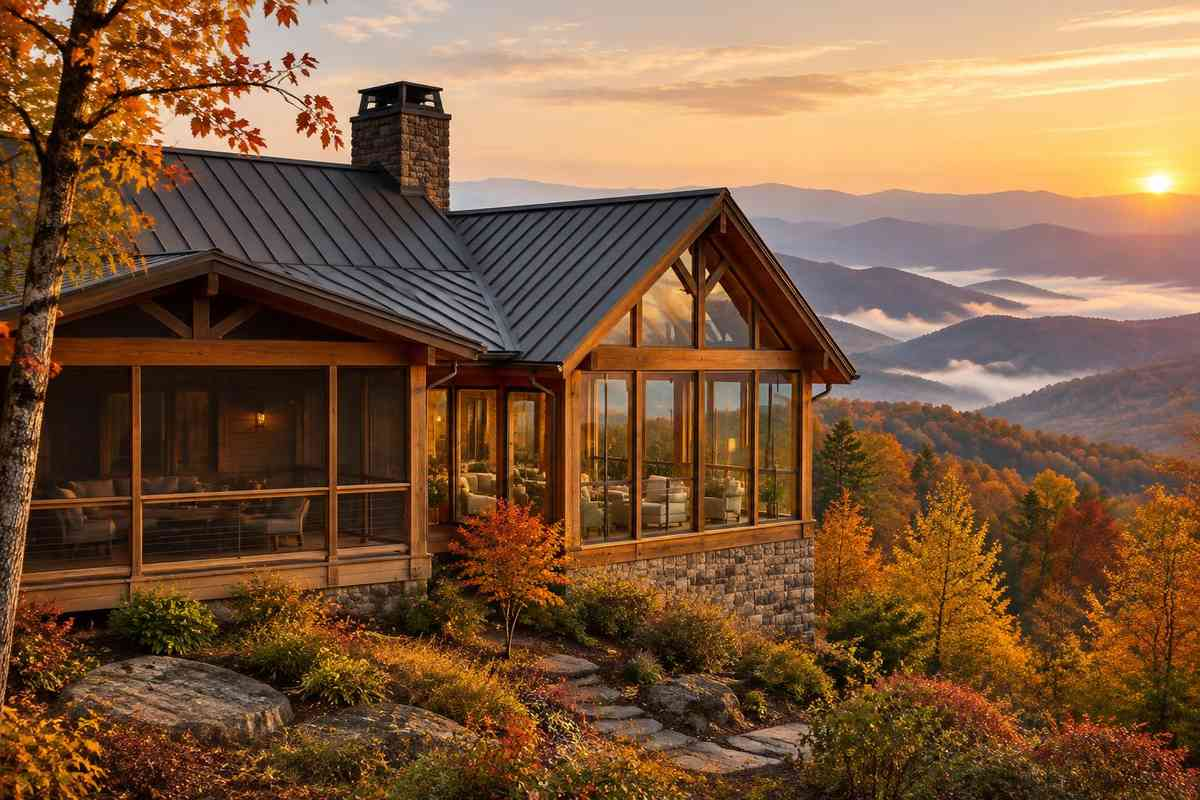
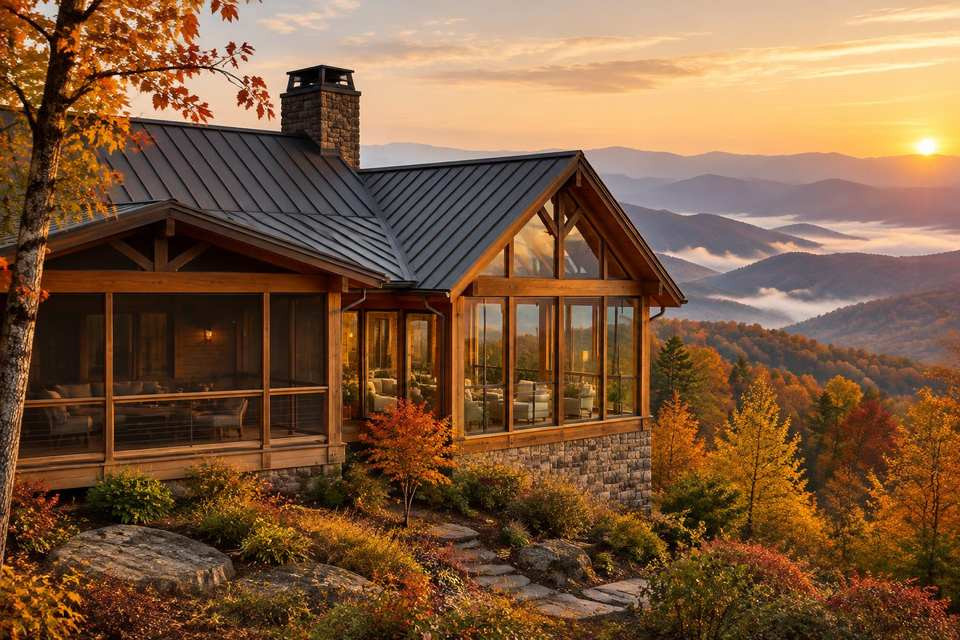
Changes

diff --git a/src/test/october20-uploaded-blog.test.ts b/src/test/october20-uploaded-blog.test.ts
@@ -1,0 +1,31 @@
+import { describe, expect, it } from "vitest";
+import { readFileSync, statSync } from "node:fs";
+import { blogPosts, getBlogBySlug, isLinkableBlogPost } from "@/data/blogs";
+import { canonicalUrlFor } from "@/components/SEOHead";
+
+describe("October 20 uploaded screened porch vs sunroom article", () => {
+  it("preserves the uploaded filename and supplies a matching optimized cover", () => {
+    const slug = "screened-porch-vs-sunroom";
+    const post = getBlogBySlug(slug);
+    expect(post).toBeDefined();
+    if (!post) return;
+    expect(blogPosts.filter(p => p.slug === slug)).toHaveLength(1);
+    expect(isLinkableBlogPost(post)).toBe(true);
+    expect(post.canonicalTo).toBeUndefined();
+    expect(post.date).toBe("2026-10-20");
+    expect(canonicalUrlFor(`/blog/${slug}`)).toBe(`https://highlandernc.com/blog/${slug}`);
+    expect(post.image).toContain(`${slug}-hero.jpg`);
+    expect(statSync(`src/assets/blog/${slug}-hero.jpg`).size).toBeLessThan(100_000);
+    expect(post.metaTitle.length).toBeLessThanOrEqual(60);
+    expect(post.metaDescription.length).toBeLessThanOrEqual(160);
+    expect(post.faqs?.length).toBeGreaterThanOrEqual(4);
+    expect(post.content).not.toMatch(/babylovegrowth|data-blg-cta|supabase\.co|<script|<iframe|\barchitectural\b|free estimate|[—–]/i);
+    expect(readFileSync("public/sitemap.xml", "utf8")).toContain(`<loc>https://highlandernc.com/blog/${slug}</loc>`);
+    expect(readFileSync("public/prerender-manifest.json", "utf8")).toContain(`/blog/${slug}`);
+    for (const match of post.content.matchAll(/\]\((\/blog\/[^)]+)\)/g)) {
+      const target = getBlogBySlug(match[1].replace("/blog/", ""));
+      expect(target, match[1]).toBeDefined();
+      if (target) expect(isLinkableBlogPost(target), match[1]).toBe(true);
+    }
+  });
+});

diff --git a/src/data/blog-summaries.generated.ts b/src/data/blog-summaries.generated.ts
@@ -13,6 +13,15 @@ export interface BlogSummary {
 
 export const blogSummaries: BlogSummary[] = [
   {
+    "id": "screened-porch-vs-sunroom",
+    "slug": "screened-porch-vs-sunroom",
+    "title": "Screened Porch vs. Sunroom: Which Fits a Mountain Home?",
+    "excerpt": "Compare screened porches, three-season rooms and four-season sunrooms on cost, comfort, permits and resale value for Western North Carolina mountain homes.",
+    "category": "Outdoor Living",
+    "date": "2026-10-20",
+    "readTime": "9 min"
+  },
+  {
     "id": "hip-roof-vs-gable-roof",
     "slug": "hip-roof-vs-gable-roof",
     "title": "Hip Roof vs. Gable Roof: Which Is Better for a Mountain Home?",
@@ -110,14 +119,5 @@ export const blogSummaries: BlogSummary[] = [
     "category": "Materials",
     "date": "2026-10-08",
     "readTime": "11 min"
-  },
-  {
-    "id": "acv-vs-rcv-roof",
-    "slug": "acv-vs-rcv-roof",
-    "title": "ACV vs RCV Roof Insurance: Understand the Depreciation Gap",
-    "excerpt": "Compare ACV and RCV roof insurance, an illustrative depreciation example, and the policy details and repair documents Western NC homeowners should check.",
-    "category": "Insurance",
-    "date": "2026-10-08",
-    "readTime": "15 min"
   }
 ];

diff --git a/src/data/blog-index.generated.ts b/src/data/blog-index.generated.ts
@@ -14,6 +14,14 @@ export interface BlogIndexEntry {
 
 export const blogIndex: BlogIndexEntry[] = [
   {
+    "slug": "screened-porch-vs-sunroom",
+    "title": "Screened Porch vs. Sunroom: Which Fits a Mountain Home?",
+    "excerpt": "Compare screened porches, three-season rooms and four-season sunrooms on cost, comfort, permits and resale value for Western North Carolina mountain homes.",
+    "category": "Outdoor Living",
+    "date": "2026-10-20",
+    "town": "Franklin"
+  },
+  {
     "slug": "hip-roof-vs-gable-roof",
     "title": "Hip Roof vs. Gable Roof: Which Is Better for a Mountain Home?",
     "excerpt": "Compare hip and gable roofs on wind, snow, cost, attic space, venting and insurance to choose the right shape for a Western North Carolina mountain home.",
